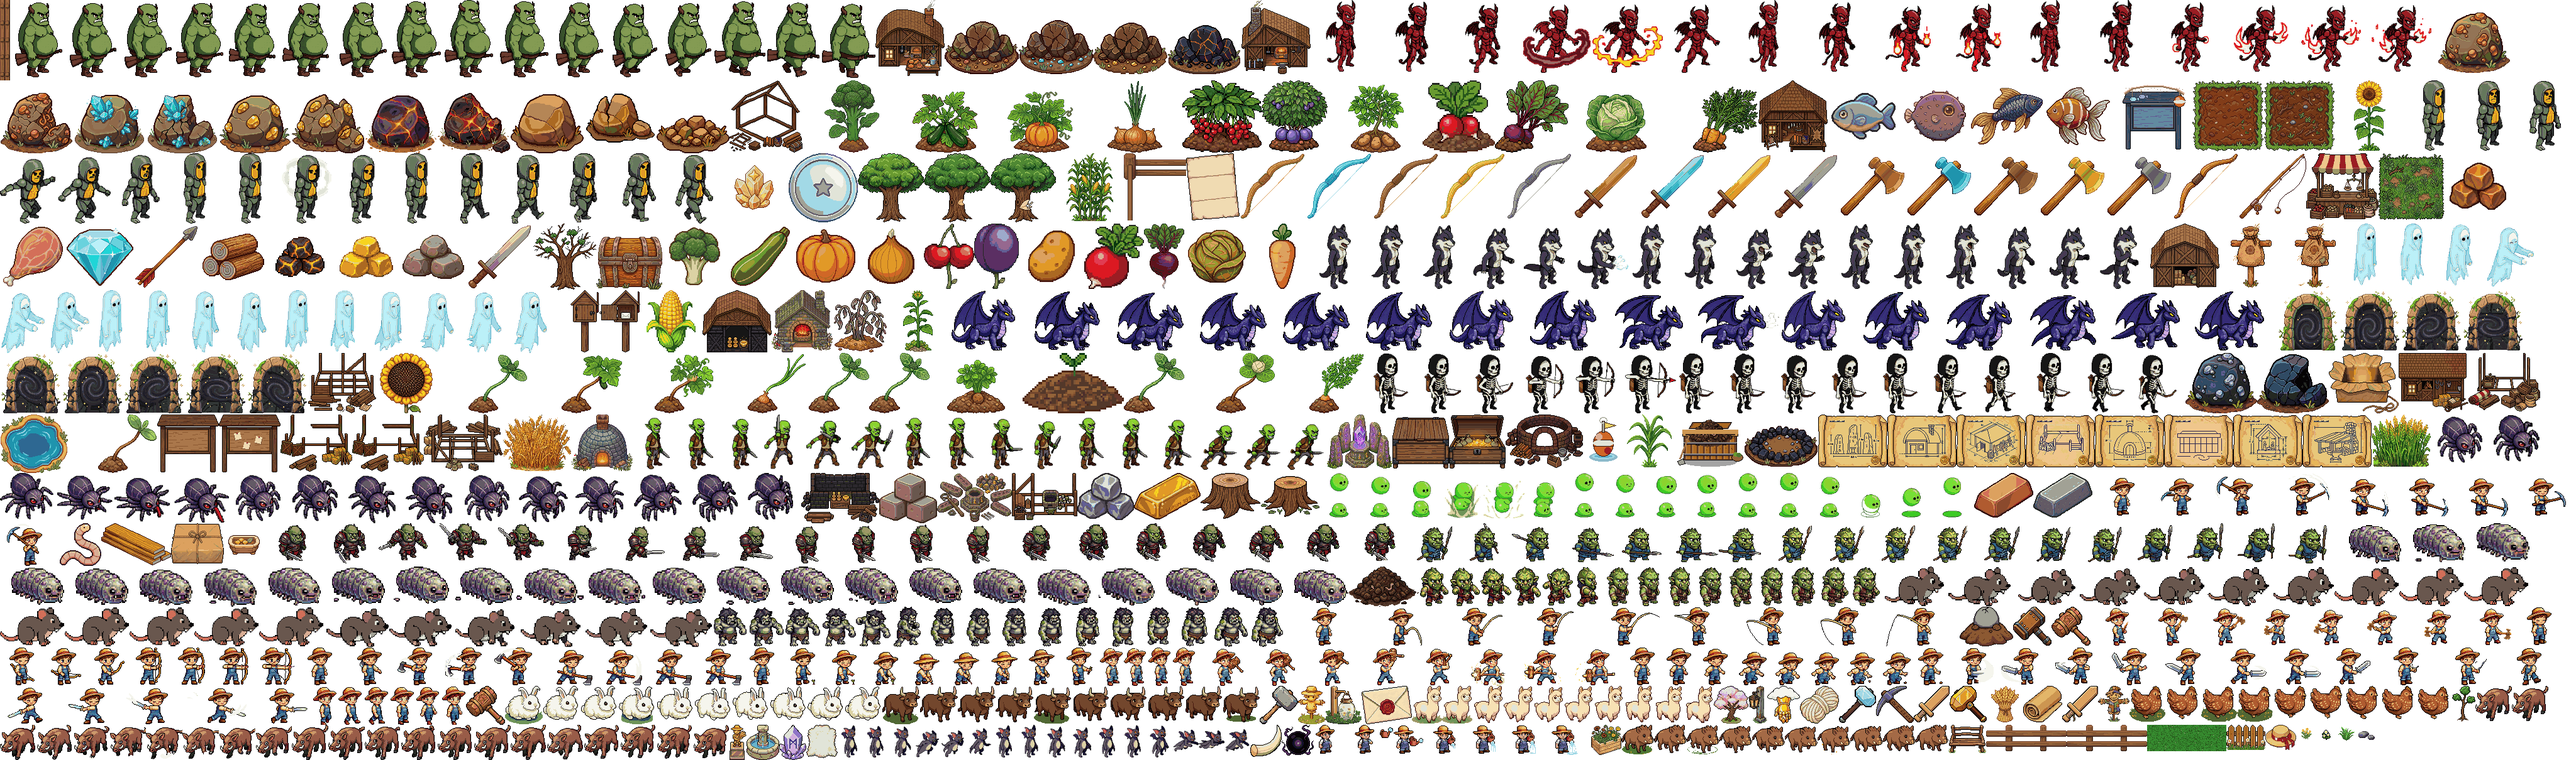
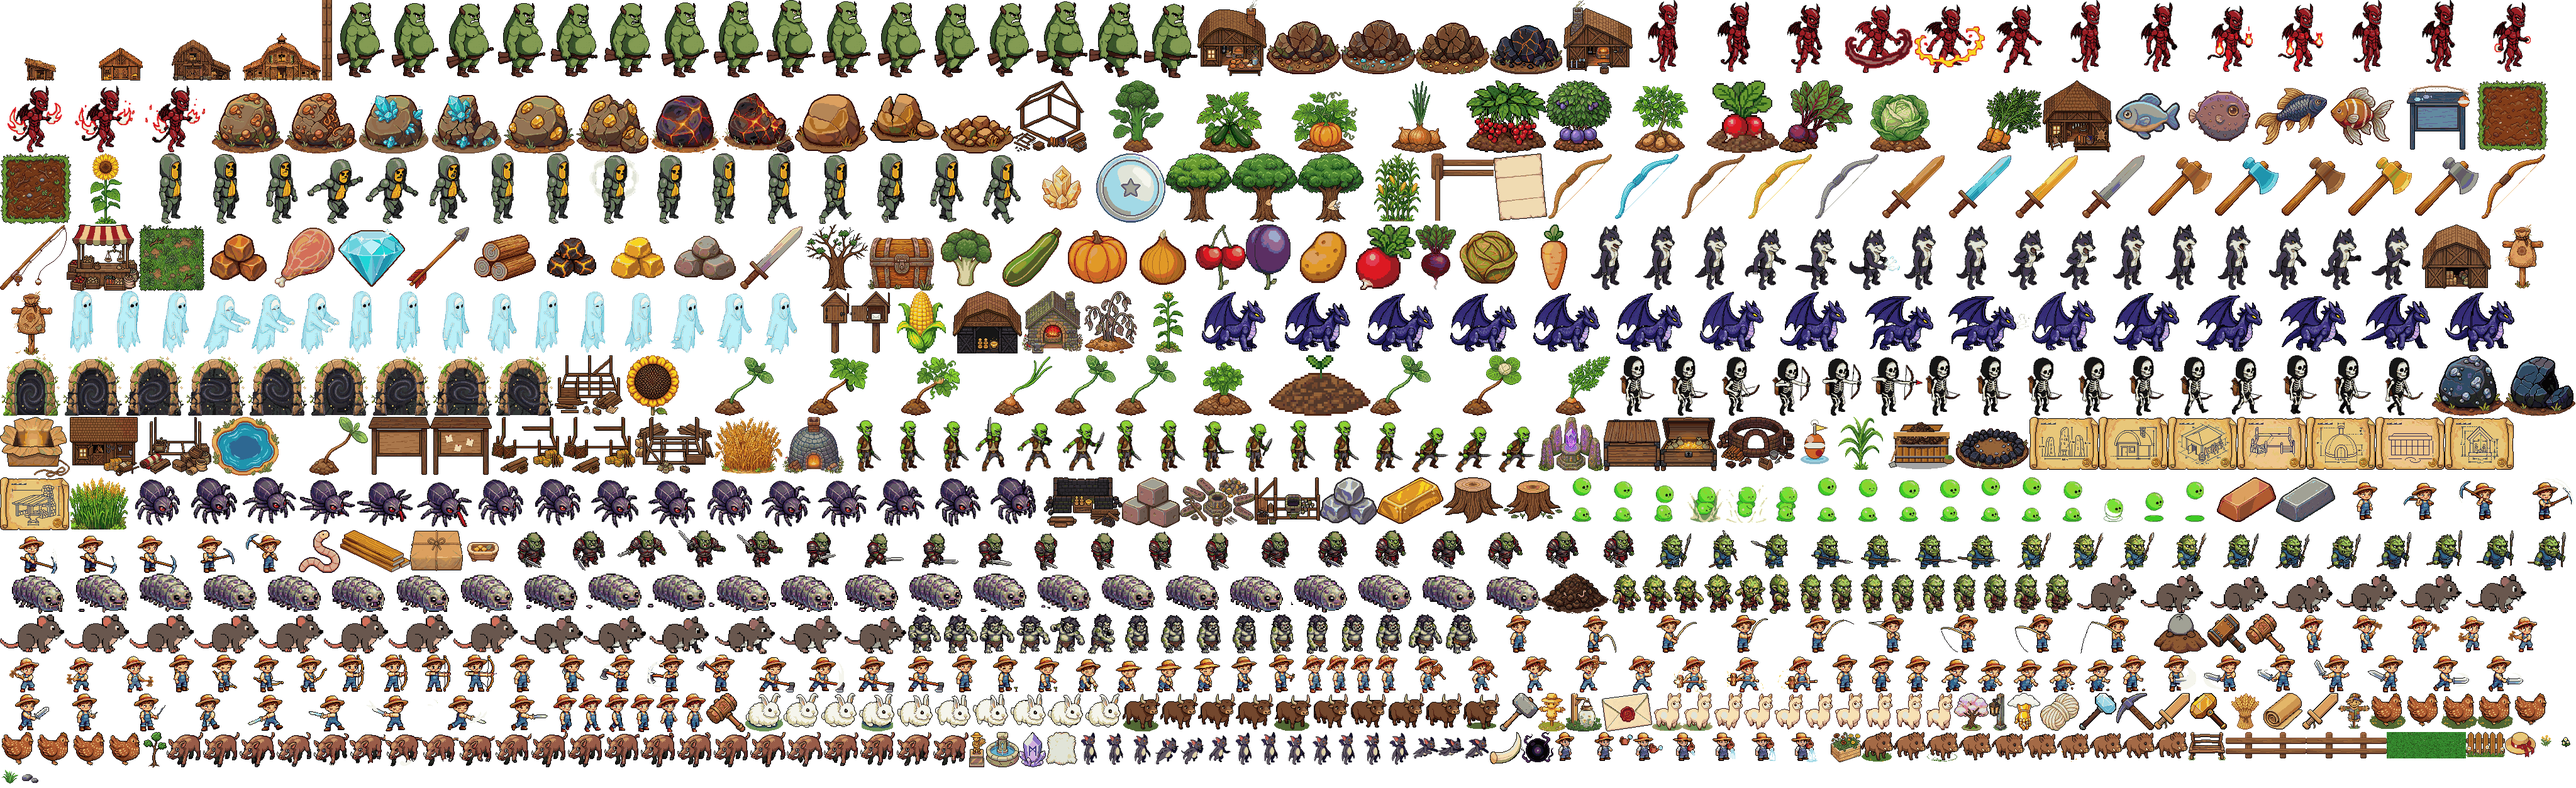
Give barn upgrades distinct growing building silhouettes

diff --git a/tools/test-acabados-edificios.js b/tools/test-acabados-edificios.js
@@ -1,8 +1,8 @@
 'use strict';const assert=require('node:assert/strict'),fs=require('node:fs'),vm=require('node:vm'),path=require('node:path');const root=path.resolve(__dirname,'..'),source=fs.readFileSync(root+'/public/game/farm.js','utf8'),start=source.indexOf('  acabadosEdificios() {'),end=source.indexOf('  tintarNodo(o) {',start),ctx={G:{infraestructura:null,built:{barn:true,market:true}},BUILD_DEF:{barn:{},market:{}}};vm.createContext(ctx);vm.runInContext('this.draw=function '+source.slice(start,end).trim(),ctx);
 const nuevos=[];function grafico(){const g={rects:[],color:0,clear(){this.rects=[];return this;},fillStyle(c){this.color=c;return this;},fillRect(x,y,w,h){this.rects.push({c:this.color,x,y,w,h});return this;}};for(const name of ['Visible','Position','Depth','Alpha'])g['set'+name]=function(...a){this[name]=a;return this;};nuevos.push(g);return g;}
-const obj=type=>({type,cx:120,by:140,rw:200,sprite:{x:120,y:140,displayWidth:200,displayHeight:180,depth:140,alpha:1,visible:true}}),barn=obj('barn'),market=obj('market'),scene={objs:[barn,market],add:{graphics:grafico}};
+const obj=type=>({type,cx:120,by:140,rw:200,sprite:{x:120,y:140,displayWidth:200,displayHeight:180,depth:140,alpha:1,visible:true}}),market=obj('market'),scene={objs:[market],add:{graphics:grafico}};
 ctx.draw.call(scene);assert.equal(nuevos.length,0);const muestras=[];
-for(let n=1;n<=3;n++){ctx.G.infraestructura={granja:n,tienda:n===1||n===3,mercado:n>=2};const before=JSON.stringify(ctx.G);ctx.draw.call(scene);assert.equal(JSON.stringify(ctx.G),before);assert.ok(barn.acabado.rects.length>0);muestras.push(structuredClone(barn.acabado.rects));for(const o of [barn,market]){assert.deepEqual(o.acabado.Position,[120,140]);for(const q of o.acabado.rects){assert.ok(q.x>=-100&&q.x+q.w<=100&&q.y>=-180&&q.y+q.h<=0,'acabado dentro de la silueta');}}}
-assert.ok(muestras[1].length>muestras[0].length);assert.ok(muestras[2].length>muestras[1].length);assert.equal(nuevos.length,2,'reutiliza gráficos');barn.sprite.x=300;barn.sprite.y=250;ctx.draw.call(scene);assert.deepEqual(barn.acabado.Position,[300,250]);assert.equal(barn.cx,120,'no modifica ocupación');barn.oculto=true;ctx.draw.call(scene);assert.deepEqual(barn.acabado.Visible,[false]);barn.oculto=false;ctx.G.built.barn=false;ctx.draw.call(scene);assert.deepEqual(barn.acabado.Visible,[false]);
+for(let n=1;n<=3;n++){ctx.G.infraestructura={granja:n,tienda:n===1||n===3,mercado:n>=2};const before=JSON.stringify(ctx.G);ctx.draw.call(scene);assert.equal(JSON.stringify(ctx.G),before);assert.ok(market.acabado.rects.length>0);muestras.push(structuredClone(market.acabado.rects));for(const o of [market]){assert.deepEqual(o.acabado.Position,[120,140]);for(const q of o.acabado.rects){assert.ok(q.x>=-100&&q.x+q.w<=100&&q.y>=-180&&q.y+q.h<=0,'acabado dentro de la silueta');}}}
+assert.ok(muestras[1].length>muestras[0].length);assert.ok(muestras[2].length>muestras[1].length);assert.equal(nuevos.length,1,'reutiliza gráficos');market.sprite.x=300;market.sprite.y=250;ctx.draw.call(scene);assert.deepEqual(market.acabado.Position,[300,250]);assert.equal(market.cx,120,'no modifica ocupación');market.oculto=true;ctx.draw.call(scene);assert.deepEqual(market.acabado.Visible,[false]);market.oculto=false;ctx.G.built.market=false;ctx.draw.call(scene);assert.deepEqual(market.acabado.Visible,[false]);
 if(process.env.GOLDEN_QA_ACABADOS)fs.writeFileSync(process.env.GOLDEN_QA_ACABADOS,JSON.stringify(muestras));
 console.log('OK: acabados progresivos, límites de silueta, seguimiento del arrastre, ocultación de obras, caché y progreso intacto.');

diff --git a/tools/test-granero-evolucion.js b/tools/test-granero-evolucion.js
@@ -1,0 +1,8 @@
+'use strict';const assert=require('node:assert/strict'),fs=require('node:fs'),path=require('node:path'),vm=require('node:vm'),{spawnSync}=require('node:child_process');const root=path.resolve(__dirname,'..'),source=fs.readFileSync(root+'/public/game/farm.js','utf8'),start=source.indexOf('  acabadosEdificios() {'),end=source.indexOf('  tintarNodo(o) {',start),ctx={G:{infraestructura:null,built:{barn:true}},BUILD_DEF:{barn:{}}};vm.createContext(ctx);vm.runInContext('this.draw=function '+source.slice(start,end).trim(),ctx);
+let cambios=0;const s={x:120,y:140,width:106,texture:{key:'barn'},visible:true,setTexture(key){this.texture.key=key;this.width=128;cambios++;return this;},setScale(k){this.scale=k;this.displayWidth=this.width*k;return this;}},o={type:'barn',cx:120,by:140,rw:105,sprite:s},sc={objs:[o],textures:{exists:()=>true},add:{graphics(){throw Error('El granero debe cambiar de sprite, no decorar la misma forma');}}};
+for(let n=0;n<=3;n++){ctx.G.infraestructura={granja:n};const before=JSON.stringify(ctx.G);ctx.draw.call(sc);assert.equal(s.texture.key,'barn_evo_'+n);assert.equal(s.displayWidth,105);assert.equal(s.x,120);assert.equal(s.y,140);assert.equal(o.rw,105);assert.equal(JSON.stringify(ctx.G),before);}
+const prev=cambios;ctx.draw.call(sc);assert.equal(cambios,prev,'no reinicia escala ni textura en cada frame');s.x=280;s.y=260;ctx.draw.call(sc);assert.equal(s.x,280);assert.equal(s.y,260);assert.equal(o.cx,120);ctx.G.built.barn=false;ctx.G.infraestructura.granja=0;ctx.draw.call(sc);assert.equal(s.texture.key,'barn_evo_3','respeta obras sin construir');ctx.G.built.barn=true;o.oculto=true;ctx.draw.call(sc);assert.equal(s.texture.key,'barn_evo_3');o.oculto=false;sc.textures.exists=()=>false;ctx.draw.call(sc);assert.equal(s.texture.key,'barn_evo_3','conserva respaldo si falta la textura');
+const py="from PIL import Image;import json,sys;out=[]\nfor i in range(4):\n im=Image.open(sys.argv[1]+'/public/assets/farm/barn_evo_'+str(i)+'.png');a=im.getchannel('A');b=a.getbbox();out.append({'size':im.size,'bbox':b,'alpha':a.getextrema(),'area':sum(1 for v in a.getdata() if v)})\nprint(json.dumps(out))";
+let r=spawnSync('python',['-c',py,root],{encoding:'utf8'});if(r.error?.code==='ENOENT')r=spawnSync('python3',['-c',py,root],{encoding:'utf8'});assert.equal(r.status,0,r.stderr);const data=JSON.parse(r.stdout),atlas=JSON.parse(fs.readFileSync(root+'/public/assets/atlas.json','utf8')).frames;
+let width=0,height=0,area=0;for(let n=0;n<4;n++){const d=data[n],w=d.bbox[2]-d.bbox[0],h=d.bbox[3]-d.bbox[1];assert.deepEqual(d.size,[128,128]);assert.deepEqual(d.alpha,[0,255]);assert.equal(d.bbox[3],128,'misma línea de suelo');assert.ok(w>width&&h>height&&d.area>area,'volumen visible crece realmente');assert.ok(atlas['barn_evo_'+n]);width=w;height=h;area=d.area;}
+console.log('OK: cuatro siluetas crecientes, misma ancla y reserva, atlas, obras ocultas, cambio en vivo y textura de respaldo.');

diff --git a/public/game/boot.js b/public/game/boot.js
@@ -112,6 +112,7 @@ class BootScene extends Phaser.Scene {
     L.push(["plot", P + "plot.png?v=4"]);   // tierra suelta que combina con los montículos
     L.push(["plot_blocked", P + "plot_blocked.png?v=3"]);   // sin trabajar: ramas, piedras y yuyos
     L.push(["barn", P + "barn.png?v=4"]);
+    for(let i=0;i<4;i++)L.push(["barn_evo_"+i,P+"barn_evo_"+i+".png"]);
     L.push(["market", P + "market.png?v=4"]);
     L.push(["store", P + "store.png?v=6"]);          // v4: fragua a medio fuego (estado por defecto)
     L.push(["store_lit", P + "store_lit.png?v=3"]);      // fragua encendida (mientras crafteás/reparás)
@@ -154,8 +155,8 @@ class BootScene extends Phaser.Scene {
   preload() {
     // ATLAS: todos los sprites del mundo en 2 archivos (mucho más liviano para el server free).
     // Si el atlas no llega, ensureAll() baja los archivos sueltos como respaldo.
-    this.load.image("__atlas", "assets/atlas.png?v=55");
-    this.load.json("__atlasmap", "assets/atlas.json?v=55");
+    this.load.image("__atlas", "assets/atlas.png?v=56");
+    this.load.json("__atlasmap", "assets/atlas.json?v=56");
     // 2/9: la isla viaja en la PRIMERA pasada (es la única imagen que no cabe en el atlas:
     // 1190x854). Antes quedaba para los reintentos y era ella sola la que disparaba una
     // segunda vuelta de descarga en cada carga del juego.

diff --git a/public/game/farm.js b/public/game/farm.js
@@ -2698,7 +2698,14 @@ class FarmScene extends Phaser.Scene {
     for(const o of this.objs||[]){
       if(o.type!=='barn'&&o.type!=='market')continue;
       const s=o.sprite;if(!s)continue;
-      const n=o.type==='barn'?(G.infraestructura?.granja||0):(G.infraestructura?.tienda?1:0)+(G.infraestructura?.mercado?2:0);
+      if(o.type==='barn'){
+        if(o.acabado)o.acabado.setVisible(false);
+        if(o.oculto||s.visible===false||(BUILD_DEF.barn&&!G.built?.barn))continue;
+        const etapa=Math.min(3,Math.max(0,Math.floor(G.infraestructura?.granja||0))),key='barn_evo_'+etapa;
+        if(this.textures.exists(key)&&s.texture?.key!==key){s.setTexture(key);s.setScale(o.rw/s.width);}
+        continue;
+      }
+      const n=(G.infraestructura?.tienda?1:0)+(G.infraestructura?.mercado?2:0);
       const visible=n>0&&!o.oculto&&s.visible!==false&&(!BUILD_DEF[o.type]||!!G.built?.[o.type]);
       if(!visible){if(o.acabado)o.acabado.setVisible(false);continue;}
       const w=s.displayWidth||o.rw,h=s.displayHeight||w,g=o.acabado||(o.acabado=this.add.graphics()),firma=n+':'+w+':'+h;

diff --git a/public/index.html b/public/index.html
@@ -6,8 +6,8 @@
 <title>Golden Farm</title>
 <!-- El atlas es lo más pesado del juego (386 KB con 329 sprites). Se empieza a bajar YA,
      en paralelo con el login y la carga de la partida, en vez de esperar a que Phaser arranque. -->
-<link rel="preload" as="image" href="assets/atlas.png?v=55">
-<link rel="preload" as="fetch" href="assets/atlas.json?v=55" crossorigin>
+<link rel="preload" as="image" href="assets/atlas.png?v=56">
+<link rel="preload" as="fetch" href="assets/atlas.json?v=56" crossorigin>
 <link rel="preconnect" href="https://cdn.jsdelivr.net" crossorigin>
 <link rel="preconnect" href="https://ulspkdaljeuleqqdokfk.supabase.co" crossorigin>
 <style>

diff --git a/tools/build-atlas.py b/tools/build-atlas.py
@@ -31,7 +31,7 @@ BOOT = os.path.join(RAIZ, "public", "game", "boot.js")
 
 # Los iconos de recursos, cultivos, peces y monedas también van al atlas: el juego los
 # usa para el "premio" que sale volando cuando talás, picás o cosechás.
-EXTRA = ["res_", "crop_", "cropm_", "cropg_", "fish_", "coin_", "animal_", "pet_gallina_walk_", "deco_", "build_", "plano_", "rock_buried", "hero_axe_", "hero_mace_"]   # build_: obras · plano_: blueprints (12/8) · ataques nuevos (21/9)
+EXTRA = ["barn_evo_", "res_", "crop_", "cropm_", "cropg_", "fish_", "coin_", "animal_", "pet_gallina_walk_", "deco_", "build_", "plano_", "rock_buried", "hero_axe_", "hero_mace_"]   # build_: obras · plano_: blueprints (12/8) · ataques nuevos (21/9)
 # 17/8: cropm_/cropg_ (planta a medias y crecida) SE HABÍAN QUEDADO AFUERA. "crop_" no los
 # atrapa, así que cada cultivo nuevo entraba con su icono al atlas pero sus dos etapas de
 # crecimiento se bajaban sueltas. Con 3 cultivos nuevos eran 6 pedidos extra + la fase de

diff --git a/docs/LEYES.md b/docs/LEYES.md
@@ -1,5 +1,9 @@
 # Las leyes de Golden Farm
 
+## Silueta evolutiva del granero — 26/10/2026
+
+Dirección rechaza la misma forma con adornos: pide pasar de una construcción pequeña y cutre a otra mayor y elaborada. Cuatro sprites nuevos según mejora de granja 0/1/2/3: cobertizo bajo, granero a dos aguas, granero con anexo lateral y granero con dos alas y cúpula de ventilación. Se conserva barn.png original. Lienzos transparentes 128×128, misma ancla inferior central, ancho/alto visible creciente; misma rw y contrato de ocupación/celdas/colisiones. Se sustituyen los adornos del granero por cambios de textura; el mercado conserva sus acabados. No hay cambios de precios, requisitos, capacidad ni XP. Carga inicial en atlas con cache v56 y respaldo por archivos sueltos.
+
 ## God Hand, mercado y cierre de pendientes — 26/10/2026
 
 Dirección autoriza resolver los pendientes, excluye nuevas maderas de esta versión y mantiene USDT desactivado. Parámetros iniciales ajustables: God Hand recibe una mejora única de eficiencia por 50.000 Plata, requiere poseerla y reduce un 10% el total de su tarifa de trabajo, redondeado una vez. No reduce prestaciones anteriores, capacidad, producción ni energía. Mercado: mejora única por 50.000 Plata, 100 madera, 100 piedra y 5 hierro; reduce dos puntos la comisión de nuevas publicaciones (Free 8%, VIP 5%). Las filas anteriores conservan fee_pct y los cupos no cambian. Ambas compras usan libro protegido, recibo y CAS. La restricción de tasas admite 5/7/8/10; el trigger sigue fijando la tasa.
